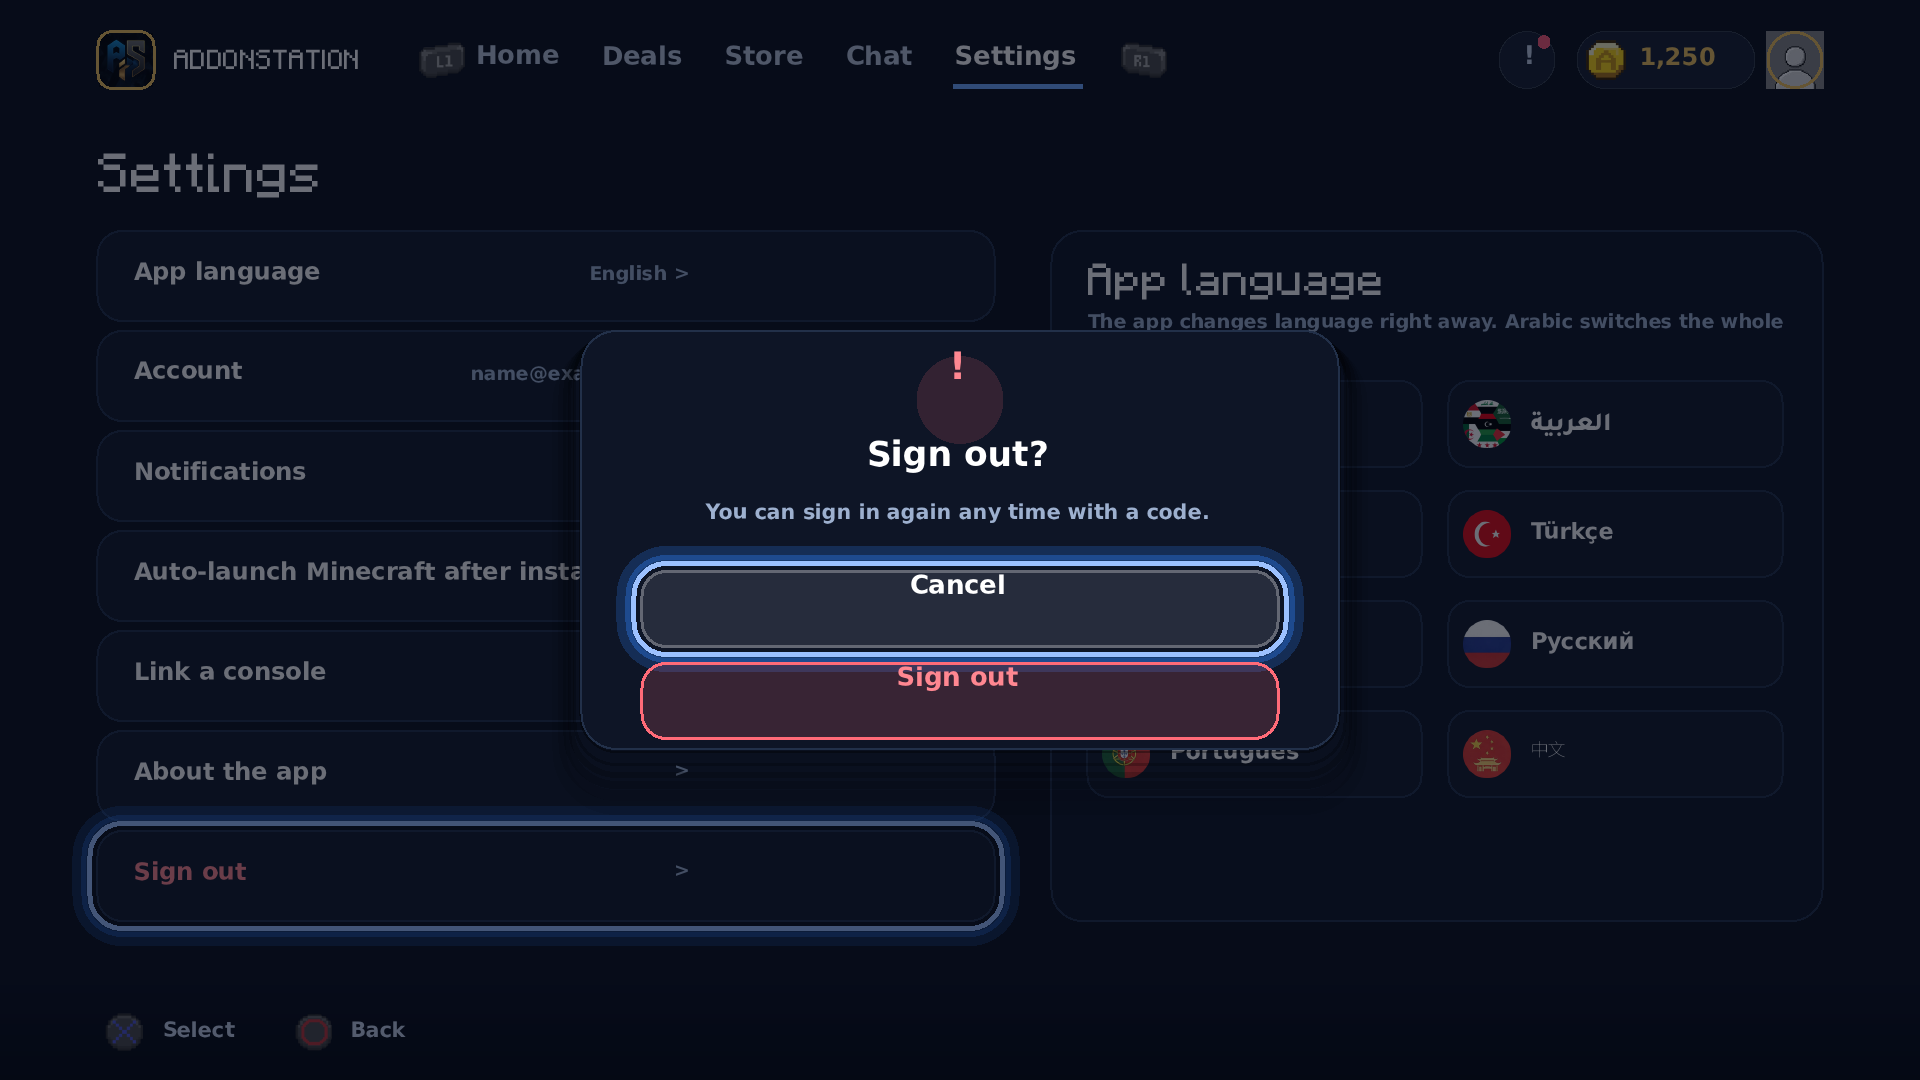
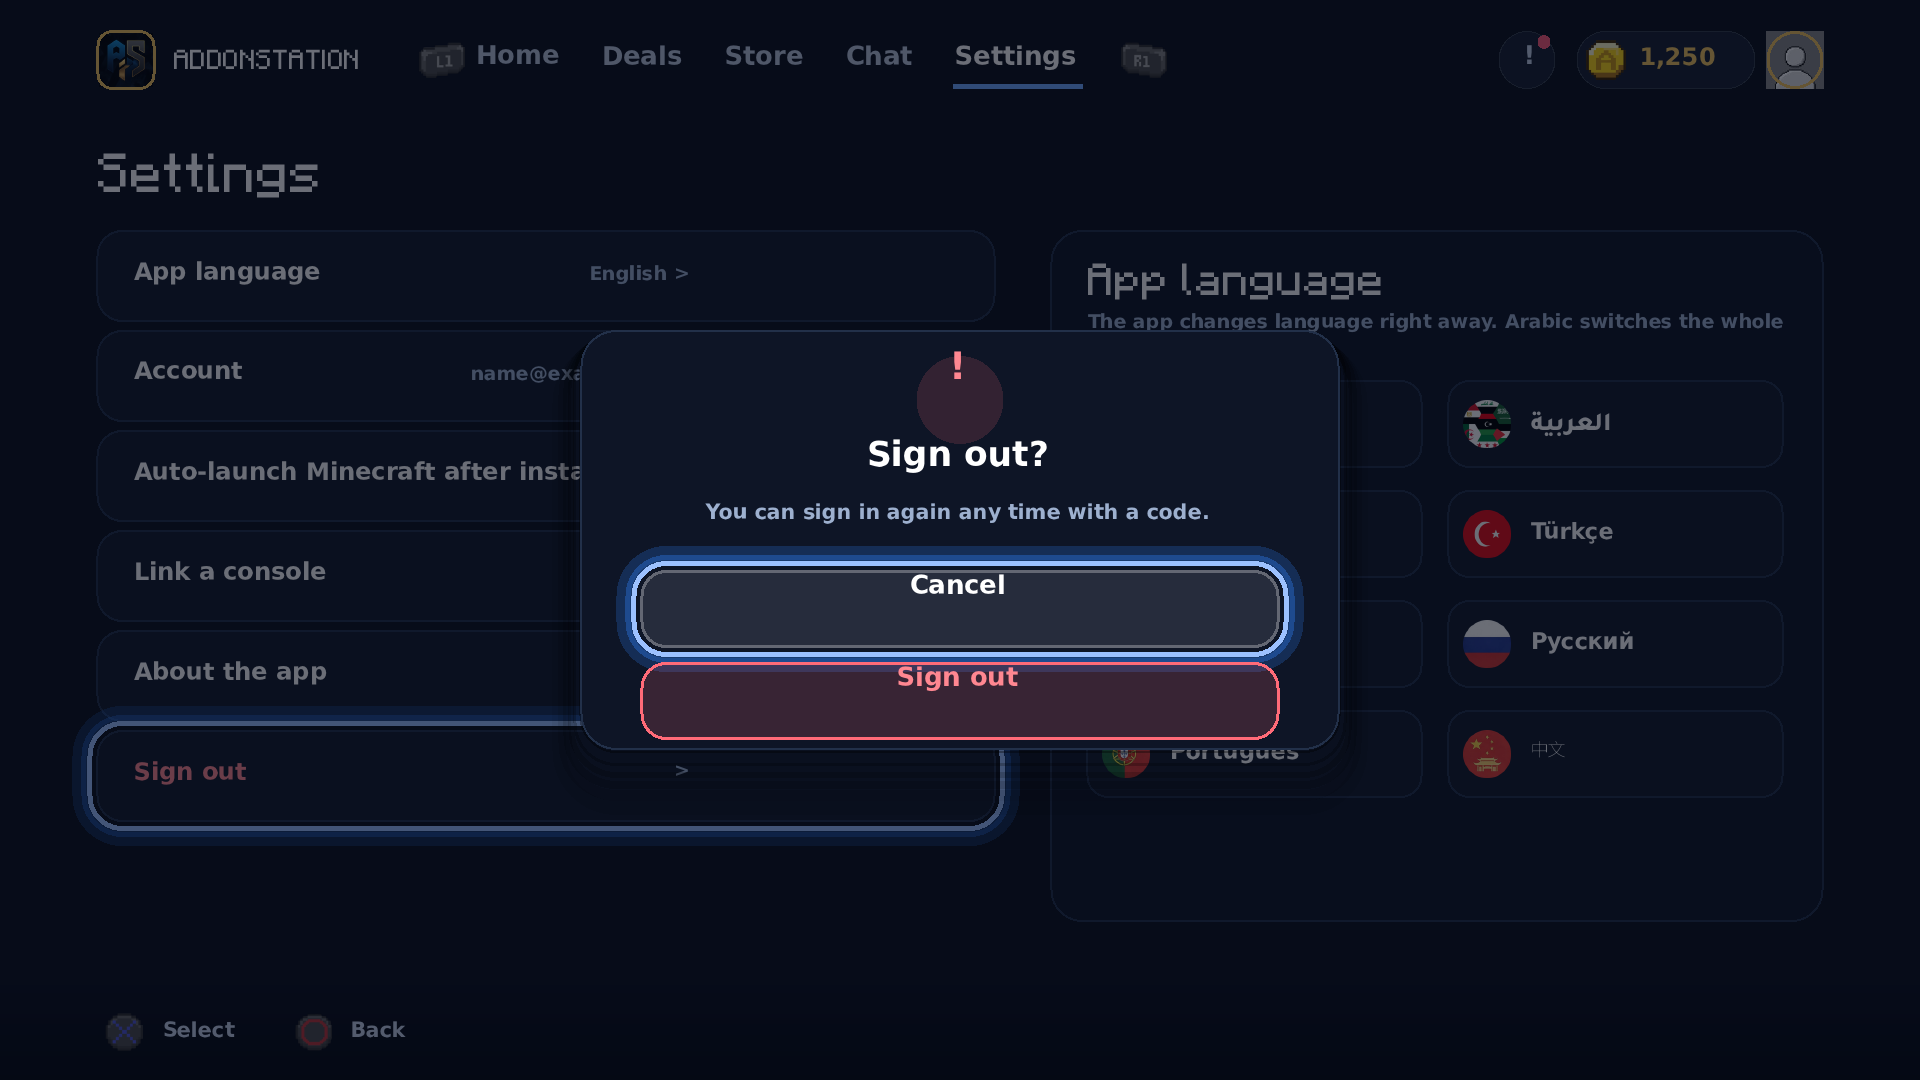
v0.21: remove notifications toggle from Settings (6 rows) [skip ci]

diff --git a/ps4-addon-test/src/main.cpp b/ps4-addon-test/src/main.cpp
@@ -10,7 +10,7 @@
 // install page; category/filter chips apply a filter (visible active chip);
 // banner Back returns; "Shop the sale" opens Deals; L1/R1 switch tabs only
 // inside the app (Home · Deals · Store · Chat · Settings) and L2/R2 change
-// the Home offer; Settings rows act (language / notifications toggle /
+// the Home offer; Settings rows act (language /
 // auto-launch Minecraft after install / link console / sign out with confirm
 // dialog), text fields open the PS4 system
 // keyboard (sceImeDialog), Download installs content from the GitHub Release.
@@ -83,7 +83,6 @@ struct AppState {
     int filterIndex = 0;   // Home category chip 0..6
     int storeFilter = 0;   // Store filter chip 0..2
     int dealsFilter = 0;   // Deals chip 0..4
-    bool notifOn = true;
     bool autoLaunch = false;   // «تشغيل Minecraft تلقائياً بعد التثبيت» (يُقرأ من الإعدادات)
     bool roomOpen = false;
     bool saved = false;
@@ -128,7 +127,7 @@ int frameSignature(const AppState& s, double t) {
               (linkDone ? 11 : (codeSecs % 60));
     sig += s.heroIndex * 31337 + s.filterIndex * 2711 +
            s.storeFilter * 397 + s.dealsFilter * 53 +
-           (s.autoLaunch ? 31 : 0) + (s.notifOn ? 17 : 0) +
+           (s.autoLaunch ? 31 : 0) +
            s.contentStamp * 7919;
     return sig;
 }
@@ -637,14 +636,13 @@ int main(int, char**) {
                     toast(state.haveSession ? ("Account: " + state.sessionName)
                                             : std::string("Account: name@example.com"));
                 }
-                else if (state.focus == 2) { state.notifOn = !state.notifOn; toast(state.notifOn ? "Notifications ON" : "Notifications OFF"); }
-                else if (state.focus == 3) {
+                else if (state.focus == 2) {
                     state.autoLaunch = !state.autoLaunch;
                     pkgtest::saveAutoLaunchSetting(state.autoLaunch);
                     toast(pkgtest::tr(state.autoLaunch ? "autolaunch_on" : "autolaunch_off", currentLang()));
                 }
-                else if (state.focus == 4) { requestNewCode(); go(Screen::CodeLink); }
-                else if (state.focus == 5) toast("AddonStation PS4 v0.21 — official app");
+                else if (state.focus == 3) { requestNewCode(); go(Screen::CodeLink); }
+                else if (state.focus == 4) toast("AddonStation PS4 v0.21 — official app");
                 else go(Screen::Confirm);
                 break;
             case Screen::Detail:
@@ -735,7 +733,7 @@ int main(int, char**) {
                 break;
             }
             case Screen::Settings: {
-                if (dy != 0) state.focus = std::max(0, std::min(6, state.focus + dy));
+                if (dy != 0) state.focus = std::max(0, std::min(5, state.focus + dy));
                 break;
             }
             case Screen::Confirm: {
@@ -946,14 +944,14 @@ int main(int, char**) {
                     pkgtest::drawChat(engine, state.focus, state.roomOpen, lang);
                     break;
                 case Screen::Settings:
-                    pkgtest::drawSettings(engine, state.focus, state.notifOn, state.autoLaunch,
+                    pkgtest::drawSettings(engine, state.focus, state.autoLaunch,
                                           accountCopy, lang);
                     break;
                 case Screen::Detail:
                     pkgtest::drawInstallDemo(engine, state.demoState, state.progress, lang);
                     break;
                 case Screen::Confirm:
-                    pkgtest::drawSettings(engine, state.focus, state.notifOn, state.autoLaunch,
+                    pkgtest::drawSettings(engine, state.focus, state.autoLaunch,
                                           accountCopy, lang);
                     pkgtest::drawConfirmDialog(engine, "Sign out?",
                                                "You can sign in again any time with a code.",

diff --git a/ps4-addon-test/src/screens.cpp b/ps4-addon-test/src/screens.cpp
@@ -167,10 +167,6 @@ const std::map<std::string, std::map<std::string, std::string>>& stringTable() {
                                {"pt", "Idioma do aplicativo"}, {"zh", "应用语言"}}},
         {"settings_account", {{"en", "Account"}, {"ar", "الحساب"}, {"fr", "Compte"}, {"tr", "Hesap"},
                               {"es", "Cuenta"}, {"ru", "Аккаунт"}, {"pt", "Conta"}, {"zh", "账户"}}},
-        {"settings_notifications", {{"en", "Notifications"}, {"ar", "الإشعارات"},
-                                    {"fr", "Notifications"}, {"tr", "Bildirimler"},
-                                    {"es", "Notificaciones"}, {"ru", "Уведомления"},
-                                    {"pt", "Notificações"}, {"zh", "通知"}}},
         {"settings_link", {{"en", "Link a console"}, {"ar", "ربط جهاز"}, {"fr", "Lier une console"},
                            {"tr", "Konsol bağla"}, {"es", "Vincular una consola"},
                            {"ru", "Привязать консоль"}, {"pt", "Vincular um console"}, {"zh", "绑定主机"}}},
@@ -1036,7 +1032,7 @@ void drawHome(UiEngine& e, int focus, int heroIndex, int filterIndex, const std:
     const char* chipKeys[7] = {"open", "nav_store", "nav_home", "installed", "nav_deals", "nav_settings", "nav_chat"};
     const char* chipLbls[7] = {"All", "Addons", "Worlds", "Free", "Epic", "Legendary", "New"};
     int cxp = 96;
-    for (int i = 0; i < 7; ++i) {
+    for (int i = 0; i < 6; ++i) {
         const int cw = e.measureText(chipLbls[i], 24, FontRole::Body, false) + 56;
         const bool active = (i == filterIndex);
         if (active) {
@@ -1283,7 +1279,7 @@ void drawChat(UiEngine& e, int focus, bool roomOpen, const std::string& langCode
     drawLegendBar(e, {{"\xE2\x9C\x95", roomOpen ? "select" : "open"}, {"\xE2\x97\x8B", "back"}}, langCode);
 }
 
-void drawSettings(UiEngine& e, int focus, bool notifOn, bool autoLaunchOn,
+void drawSettings(UiEngine& e, int focus, bool autoLaunchOn,
                   const std::string& accountValue, const std::string& langCode) {
     const bool rtl = langCode == "ar";
     e.clear(kBG);
@@ -1292,17 +1288,16 @@ void drawSettings(UiEngine& e, int focus, bool notifOn, bool autoLaunchOn,
     e.drawText("Settings", 96, 150, 44, kWHT, FontRole::Pixel, false, false);
 
     struct Row { std::string label; std::string value; bool danger; int toggle; };
-    const Row rows[7] = {
+    const Row rows[6] = {
         {tr("settings_language", langCode), "English >", false, 0},
         {tr("settings_account", langCode), accountValue, false, 0},
-        {tr("settings_notifications", langCode), "", false, 1},
-        {tr("autolaunch", langCode), "", false, 2},
+        {tr("autolaunch", langCode), "", false, 1},
         {tr("settings_link", langCode), "1 device >", false, 0},
         {tr("settings_about", langCode), ">", false, 0},
         {tr("settings_signout", langCode), ">", true, 0},
     };
     const int listX = 96, listW = 900;
-    for (int i = 0; i < 7; ++i) {
+    for (int i = 0; i < 6; ++i) {
         const int y = 230 + i * 100;
         e.drawRoundRect(listX, y, listW, 92, 26, kSF);
         e.drawRoundBorder(listX, y, listW, 92, 26, 2, kBD);
@@ -1310,7 +1305,7 @@ void drawSettings(UiEngine& e, int focus, bool notifOn, bool autoLaunchOn,
                    rows[i].danger ? SDL_Color{255, 135, 145, 255} : kWHT,
                    FontRole::Body, false, rtl, 560);
         if (rows[i].toggle) {
-            const bool on = rows[i].toggle == 1 ? notifOn : autoLaunchOn;
+            const bool on = autoLaunchOn;
             const int tx = listX + listW - 120;
             e.drawRoundRect(tx, y + 24, 84, 44, 22, on ? kBL : kBD);
             e.drawCircle(tx + (on ? 62 : 22), y + 46, 18, kWHT);

diff --git a/ps4-addon-test/src/screens.hpp b/ps4-addon-test/src/screens.hpp
@@ -85,7 +85,7 @@ void drawDeals(UiEngine& e, int focus, int filterIndex, const std::string& langC
 // filterIndex: active Store filter chip 0..2 (Addons Worlds Newest)
 void drawStore(UiEngine& e, int focus, int filterIndex, const std::string& langCode);
 void drawChat(UiEngine& e, int focus, bool roomOpen, const std::string& langCode);
-void drawSettings(UiEngine& e, int focus, bool notifOn, bool autoLaunchOn,
+void drawSettings(UiEngine& e, int focus, bool autoLaunchOn,
                   const std::string& accountValue, const std::string& langCode);
 void drawConfirmDialog(UiEngine& e, const std::string& title, const std::string& sub,
                        const std::string& yesLabel, const std::string& noLabel,

diff --git a/ps4-addon-test/tools/ps4_design_preview.cpp b/ps4-addon-test/tools/ps4_design_preview.cpp
@@ -113,12 +113,12 @@ int main(int argc, char** argv) {
 
     // 16. Settings
     engine.clear(theme::BG);
-    drawSettings(engine, 0, true, true, "name@example.com", "en");
+    drawSettings(engine, 0, true, "name@example.com", "en");
     savePng(engine, outDir + "/ps4_settings_en.png");
 
     // 17. Confirm dialog (sign out)
     engine.clear(theme::BG);
-    drawSettings(engine, 6, true, true, "name@example.com", "en");
+    drawSettings(engine, 5, true, "name@example.com", "en");
     drawConfirmDialog(engine, "Sign out?", "You can sign in again any time with a code.",
                       "Sign out", "Cancel", 0, "en");
     savePng(engine, outDir + "/ps4_confirm_en.png");
